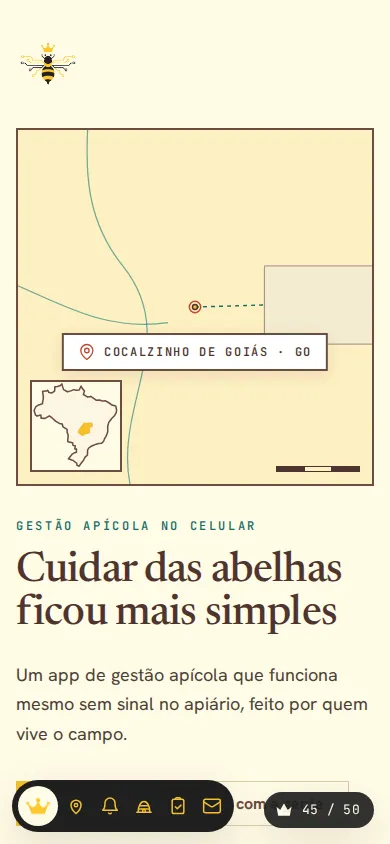
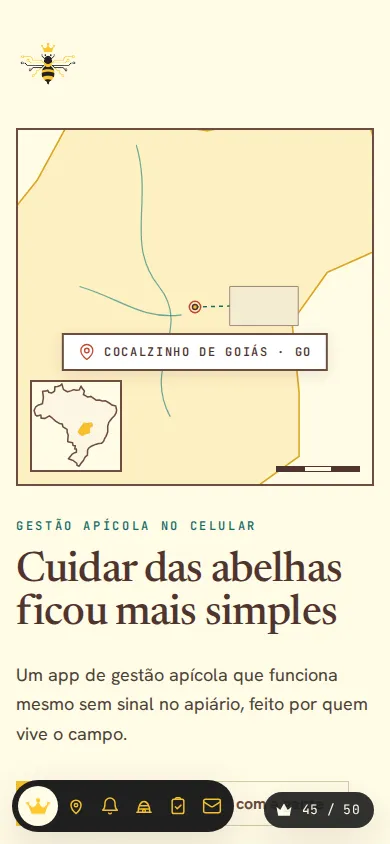
Corrige revisão da família narrativa (42–45)
Hero centrado no 42, contraste do eyebrow no 43, arco do sol longe dos botões no 44 e zoom final e rótulo do pino no 45.

diff --git a/templates/42-rainha.html b/templates/42-rainha.html
@@ -63,15 +63,19 @@
     @media (max-width: 767px) { .marca__completa { width: 56px; height: 56px; } }
 
     /* ---------- Hero: sistema de órbitas ---------- */
-    .hero { padding-top: var(--sp-6) !important; overflow: hidden; }
-    .hero__grade { display: grid; grid-template-columns: minmax(0, 5fr) minmax(0, 7fr); gap: var(--sp-6); align-items: center; }
-    .hero h1 { font-size: clamp(42px, 5vw, 68px); text-wrap: balance; margin-top: var(--sp-4); }
-    .hero .dr-body-lg { margin-top: var(--sp-5); max-width: 40ch; }
-    .acoes { display: flex; flex-wrap: wrap; gap: var(--sp-3); margin-top: var(--sp-6); }
+    /* Composição centrada: a rainha e o título no centro do halo, as órbitas em volta,
+       o subtítulo logo abaixo do sistema. O sistema pode passar da largura no celular
+       (o hero corta o excesso, sem rolagem horizontal). */
+    .hero { padding: 0 0 var(--sp-8) !important; overflow: hidden; }
+    .acoes { display: flex; flex-wrap: wrap; justify-content: center; gap: var(--sp-3); margin-top: var(--sp-5); }
     .acoes .dr-btn { border-radius: var(--r-pill); }
-    @media (max-width: 899px) { .hero__grade { grid-template-columns: minmax(0, 1fr); } }
+    .hero__pe { text-align: center; margin-top: calc(var(--S-hero) * -0.04); }
+    .hero__pe .dr-body-lg { max-width: 46ch; margin-inline: auto; }
 
     .sistema { --S: min(600px, 88vw); position: relative; width: var(--S); height: var(--S); margin-inline: auto; }
+    .sistema--hero { --S: var(--S-hero); left: 50%; margin: -24px 0 0 calc(var(--S) / -2); }
+    .hero { --S-hero: min(900px, 112vw); }
+    @media (max-width: 767px) { .hero { --S-hero: 172vw; } .sistema--hero { margin-top: -40px; } }
     .sistema__trilhas { position: absolute; inset: 0; width: 100%; height: 100%; overflow: visible; }
     .sistema__trilhas circle { fill: none; vector-effect: non-scaling-stroke; }
     .trilha-1 { stroke: var(--linha-forte); stroke-width: 1.5; }
@@ -80,10 +84,20 @@
     .halo { fill: var(--mel-veu); }
     .halo-2 { fill: none; stroke: var(--mel-claro); stroke-width: 1.5; }
     .rainha {
-      position: absolute; left: 50%; top: 50%; width: calc(var(--S) * .34); height: calc(var(--S) * .34);
-      transform: translate(-50%, -50%);
+      position: absolute; z-index: 2; left: 50%; top: 50%; width: min(480px, calc(var(--S) * .5));
+      transform: translate(-50%, -50%); text-align: center;
+      display: flex; flex-direction: column; align-items: center;
     }
-    .rainha img { width: 100%; height: 100%; }
+    .rainha__abelha { width: 96px; height: 96px; }
+    .rainha .dr-eyebrow { margin-top: var(--sp-2); }
+    .rainha h1 { font-size: clamp(30px, 3.4vw, 48px); line-height: 1.06; text-wrap: balance; margin-top: var(--sp-3); }
+    @media (max-width: 767px) {
+      .rainha { width: min(310px, 84vw); }
+      .rainha__abelha { width: 60px; height: 60px; }
+      .rainha .dr-eyebrow { font-size: 11px; letter-spacing: .16em; }
+      .rainha .acoes { gap: var(--sp-2); }
+      .rainha .acoes .dr-btn { padding: 10px 14px; font-size: 14px; }
+    }
     .anel { position: absolute; inset: 0; }
     .no {
       position: absolute; left: 50%; top: 50%; width: 0; height: 0;
@@ -290,21 +304,10 @@
 
     <!-- SEÇÃO: hero (a abelha rainha no centro de um sistema de órbitas) -->
     <section data-secao="hero" id="inicio" class="hero faixa--creme">
-      <div class="dr-container hero__grade">
-        <div class="hero__texto">
-          <p class="dr-eyebrow" data-c="hero.eyebrow"></p>
-          <h1 class="dr-display" data-c="hero.titulo"></h1>
-          <p class="dr-body-lg" data-c="hero.subtitulo"></p>
-          <div class="acoes">
-            <a class="dr-btn dr-btn--primario" data-c="cta.baixar.texto" data-c-href="cta.baixar.url"></a>
-            <a class="dr-btn dr-btn--secundario" target="_blank" rel="noopener" data-c="cta.falar.texto" data-c-href="cta.falar.url"></a>
-            <a class="dr-btn dr-btn--secundario" hidden data-c="cta.ios.texto" data-c-href="cta.ios.url"></a>
-          </div>
-        </div>
-        <div class="sistema">
+      <div class="sistema sistema--hero">
           <svg class="sistema__trilhas" viewBox="0 0 100 100" aria-hidden="true">
-            <circle class="halo" cx="50" cy="50" r="21"/>
-            <circle class="halo-2" cx="50" cy="50" r="24.5"/>
+            <circle class="halo" cx="50" cy="50" r="27"/>
+            <circle class="halo-2" cx="50" cy="50" r="29"/>
             <circle class="trilha-1" cx="50" cy="50" r="31"/>
             <circle class="trilha-3" cx="50" cy="50" r="38.5"/>
             <circle class="trilha-2" cx="50" cy="50" r="45"/>
@@ -330,8 +333,19 @@
               </li>
             </template>
           </ul>
-          <div class="rainha"><img src="../img/logos/logo-abelha-cor.png" alt="" data-c-alt="marca.alt" width="200" height="200"></div>
-        </div>
+          <div class="rainha">
+            <img class="rainha__abelha" src="../img/logos/logo-abelha-cor.png" alt="" data-c-alt="marca.alt" width="96" height="96">
+            <p class="dr-eyebrow" data-c="hero.eyebrow"></p>
+            <h1 class="dr-display" data-c="hero.titulo"></h1>
+            <div class="acoes">
+              <a class="dr-btn dr-btn--primario" data-c="cta.baixar.texto" data-c-href="cta.baixar.url"></a>
+              <a class="dr-btn dr-btn--secundario" target="_blank" rel="noopener" data-c="cta.falar.texto" data-c-href="cta.falar.url"></a>
+              <a class="dr-btn dr-btn--secundario" hidden data-c="cta.ios.texto" data-c-href="cta.ios.url"></a>
+            </div>
+          </div>
+      </div>
+      <div class="dr-container hero__pe">
+        <p class="dr-body-lg" data-c="hero.subtitulo"></p>
       </div>
     </section>
 
@@ -685,8 +699,8 @@
         mm.add('(prefers-reduced-motion: no-preference)', function () {
           // Entrada: a rainha surge, os anéis se abrem e os nós chegam (termina em ~1,3s).
           var tl = gsap.timeline({ defaults: { ease: 'power3.out' } });
-          tl.from('.hero__texto > *', { y: 22, autoAlpha: 0, duration: 0.7, stagger: 0.08 })
-            .from('.rainha', { scale: 0.6, autoAlpha: 0, duration: 0.8, ease: 'back.out(1.6)' }, 0.1)
+          tl.from('.rainha__abelha', { scale: 0.6, autoAlpha: 0, duration: 0.8, ease: 'back.out(1.6)' })
+            .from('.rainha > :not(.rainha__abelha), .hero__pe', { y: 18, autoAlpha: 0, duration: 0.7, stagger: 0.08 }, 0.15)
             .from('.sistema__trilhas circle', { scale: 0.4, transformOrigin: '50% 50%', autoAlpha: 0, duration: 0.8, stagger: 0.06 }, 0.15)
             .from('.anel .no__disco', { scale: 0, duration: 0.5, ease: 'back.out(2)', stagger: 0.04 }, 0.4);
 

diff --git a/templates/45-origem.html b/templates/45-origem.html
@@ -93,8 +93,8 @@
     .mapa .rio { fill: none; stroke: var(--petroleo-claro); stroke-width: 1.2; vector-effect: non-scaling-stroke; opacity: .7; }
     .mapa .alvo { fill: var(--mel); stroke: var(--terra-escura); vector-effect: non-scaling-stroke; stroke-width: 1.5; }
     .mapa .alvo-anel { fill: none; stroke: var(--erro); vector-effect: non-scaling-stroke; stroke-width: 1.5; }
-    .rotulo-pino { position: absolute; left: 50%; top: 50%; transform: translate(30px, -50%); pointer-events: none; }
-    .rotulo-pino .marcador { box-shadow: var(--sh-md); white-space: nowrap; }
+    .rotulo-pino { position: absolute; left: 50%; top: 50%; transform: translate(calc(-100% - 30px), -50%); pointer-events: none; } /* à esquerda do pino: o DF fica livre à direita */
+    .rotulo-pino .marcador { box-shadow: var(--sh-md); white-space: nowrap; display: inline-flex; }
     @media (max-width: 599px) { .rotulo-pino { transform: translate(-50%, 26px); } }
     .localizador { position: absolute; left: 12px; bottom: 12px; width: 92px; height: 92px; border: var(--bloco); background: var(--creme); }
     .localizador svg { width: 100%; height: 100%; display: block; }
@@ -567,7 +567,7 @@
       var PARADAS = [
         { x: 492, y: 489, s: 0.94 },        // Brasil inteiro
         { x: 610, y: 538, s: 4.6 },         // Goiás
-        { x: 630.75, y: 527.25, s: 16 }     // Cocalzinho de Goiás
+        { x: 630.75, y: 527.25, s: 8 }      // Cocalzinho de Goiás, com a divisa de Goiás e o DF à vista
       ];
       var camera, alvo, anel;
       function porCamera(k) {
@@ -662,7 +662,7 @@
           raiz.classList.add('mapa-vivo');
           var cam = { k: 0 };
           porCamera(0);
-          gsap.set(['.etapa--2', '.etapa--3', '.rotulo-pino'], { autoAlpha: 0 });
+          gsap.set(['.etapa--2', '.etapa--3', '.rotulo-pino .marcador'], { autoAlpha: 0 });
 
           // Entrada (termina em ~1,2s): o mapa surge e o texto chega.
           gsap.timeline({ defaults: { ease: 'power3.out' } })
@@ -681,7 +681,7 @@
             .to(cam, { k: 2, duration: 1, ease: 'power1.inOut', onUpdate: function () { porCamera(cam.k); } }, 1)
             .to('.etapa--2', { autoAlpha: 0, y: -30, duration: 0.3 }, 1.25)
             .fromTo('.etapa--3', { autoAlpha: 0, y: 30 }, { autoAlpha: 1, y: 0, duration: 0.3 }, 1.6)
-            .fromTo('.rotulo-pino', { autoAlpha: 0, x: -10 }, { autoAlpha: 1, x: 0, duration: 0.3 }, 1.7)
+            .fromTo('.rotulo-pino .marcador', { autoAlpha: 0, x: -10 }, { autoAlpha: 1, x: 0, duration: 0.3 }, 1.7) // anima o filho: o deslocamento do rótulo (CSS) fica intacto
             .to({}, { duration: 0.2 });
 
           return function () {

diff --git a/templates/44-dia.html b/templates/44-dia.html
@@ -531,10 +531,12 @@
 
       // Ponto na curva quadrática do arco do sol (mesmos números do path).
       function pontoArco(t) {
-        var x0 = 60, y0 = 540, cx = 500, cy = -60, x1 = 940, y1 = 540, u = 1 - t;
+        var x0 = 60, y0 = 540, cx = 500, cy = ARCO_CY, x1 = 940, y1 = 540, u = 1 - t;
         return { x: u * u * x0 + 2 * u * t * cx + t * t * x1, y: u * u * y0 + 2 * u * t * cy + t * t * y1 };
       }
+      var ARCO_CY = -60, ultimoT = 0;
       function porSol(t) {
+        ultimoT = t;
         var p = pontoArco(T0 + (T1 - T0) * t);
         document.querySelector('.sol-grupo').setAttribute('transform', 'translate(' + p.x.toFixed(1) + ' ' + p.y.toFixed(1) + ')');
       }
@@ -619,7 +621,14 @@
         porSol(0); // estático: amanhecer
         // Em tela estreita o céu ancora à esquerda, para o sol nascente continuar à vista.
         var svgCeu = document.querySelector('.ceu svg');
-        function ajustarCeu() { svgCeu.setAttribute('preserveAspectRatio', window.innerWidth < 900 ? 'xMinYMax slice' : 'xMidYMid slice'); }
+        function ajustarCeu() {
+          var estreito = window.innerWidth < 900;
+          svgCeu.setAttribute('preserveAspectRatio', estreito ? 'xMinYMax slice' : 'xMidYMid slice');
+          // No estreito o arco fica baixo, entre os morros e a fileira de botões.
+          ARCO_CY = estreito ? 300 : -60;
+          svgCeu.querySelector('.arco-sol').setAttribute('d', 'M60 540 Q 500 ' + ARCO_CY + ' 940 540');
+          porSol(ultimoT);
+        }
         ajustarCeu();
         window.addEventListener('resize', ajustarCeu);
 

diff --git a/templates/43-perdas.html b/templates/43-perdas.html
@@ -80,7 +80,7 @@
     }
     @media (max-width: 899px) and (min-width: 768px) { .arco__texto > * { padding-inline: 32px; } }
 
-    .zona--problema .dr-eyebrow { color: var(--tom-forte); }
+    .zona--problema .dr-eyebrow { color: var(--terra-escura); } /* 12px mono: terra-escura passa de 4,5:1 sobre o véu de erro */
     .zona--problema h2 { font-family: var(--serif); font-weight: 500; font-size: clamp(42px, 6vw, 80px); line-height: 1.02; letter-spacing: -.02em; color: var(--tom-forte); margin-top: var(--sp-4); text-wrap: balance; }
     .perda { display: flex; align-items: flex-end; gap: var(--sp-5); margin-top: var(--sp-7); flex-wrap: wrap; }
     .perda__valor { font-size: clamp(88px, 12vw, 168px); line-height: .82; letter-spacing: -.05em; color: var(--tom-forte); font-weight: 700; }
